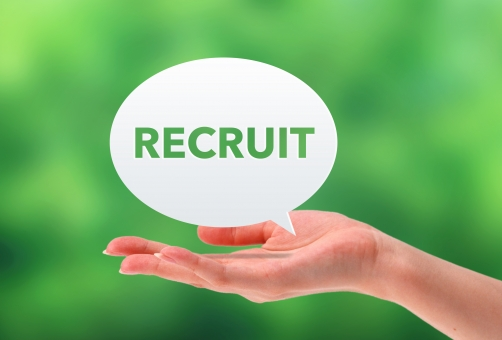
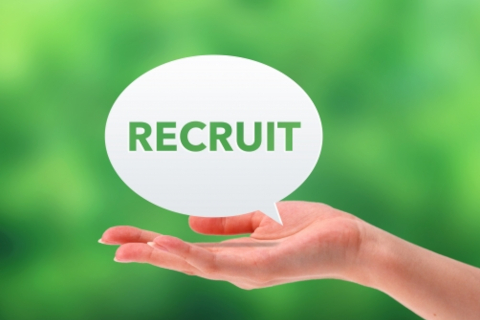
Fix card image size

diff --git a/_includes/projects.html b/_includes/projects.html
@@ -12,7 +12,8 @@
                 <div class="column has-text-centered is-paddingless is-marginless is-one-third-widescreen is-one-third-desktop is-one-third-tablet is-two-fifths-mobile is-four-fifths-mobile is-four-quarters-touch"
                      id="project-card">
                         <div class="has-background-black card">
-                            <figure class="image is-3by2" style="background-image: url({{project.image}});">
+                            <figure class="image is-3by2">
+                                <img src="{{project.image}}" alt="{{project.name}}");">
                             </figure>
                             <div class="card-content">
                                 <h1 class="title has-text-white is-size-4">{{ project.name }}</h1>
